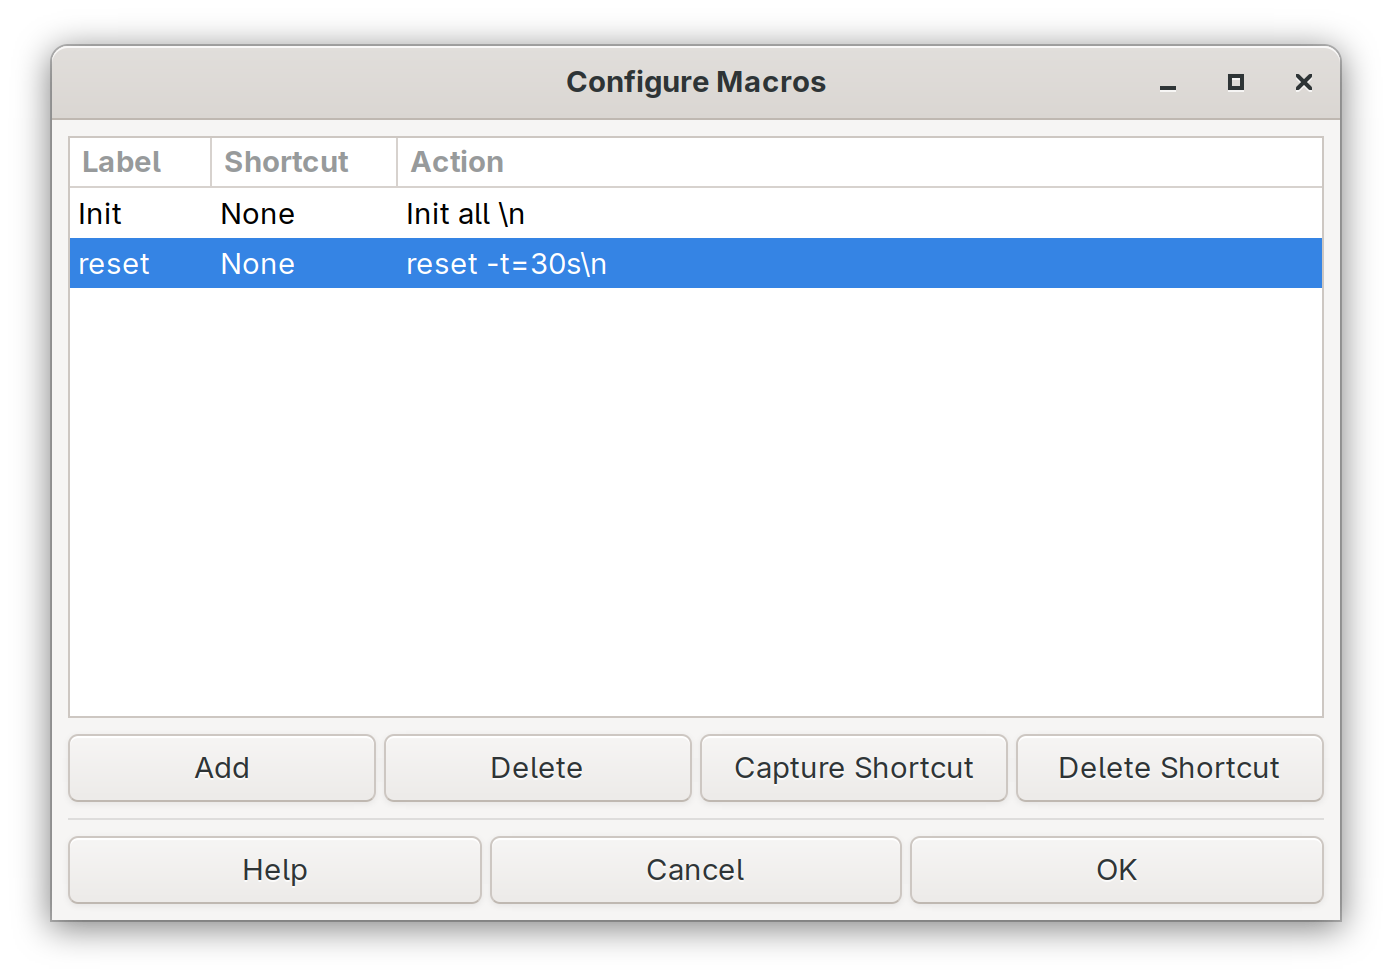
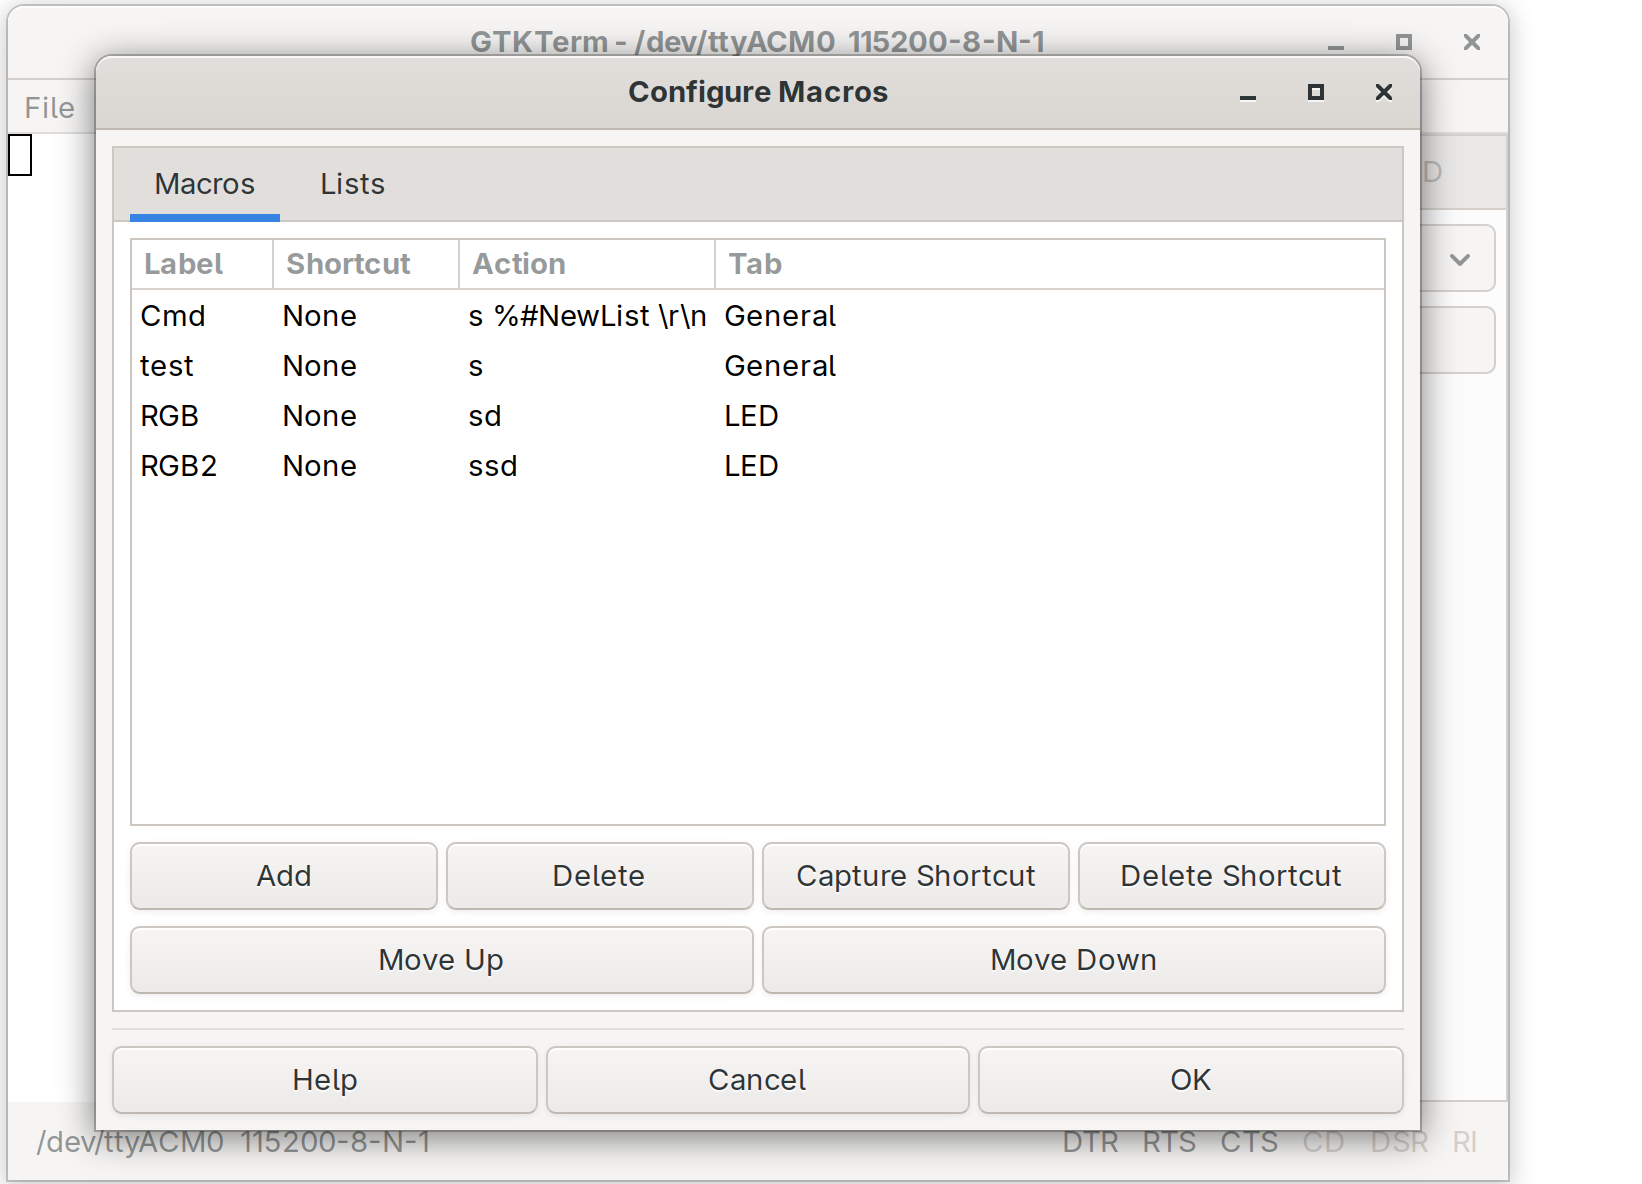
capture

Changed region(s): [[0.0, 0.0, 0.9885, 1.0], [0.278, 0.3374, 0.3089, 0.3988]]

diff --git a/README.md b/README.md
@@ -9,7 +9,9 @@ This fork add pannel to call macro using button :
 <p align="center">
     <img src="Capture2.png" width="60%"/>
 </p>
-
+<p align="center">
+    <img src="Capture3.png" width="60%"/>
+</p>
 # GTKTerm: A GTK+ Serial Port Terminal
 <img src="data/gtkterm_256x256.png" align="right" width="20%"/>
 